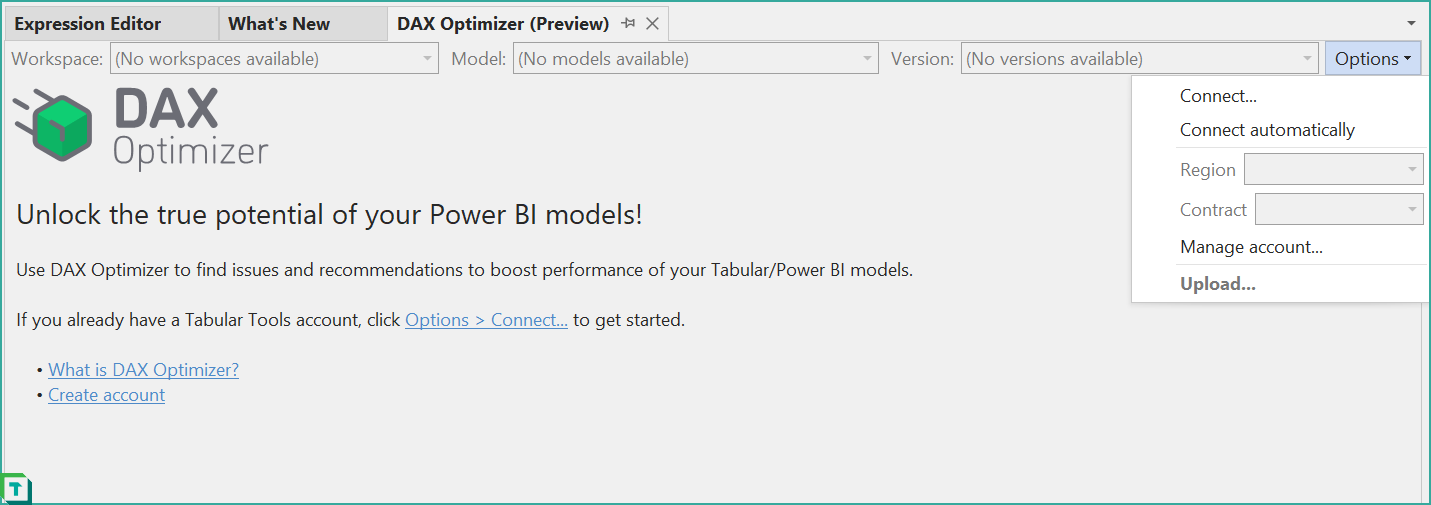
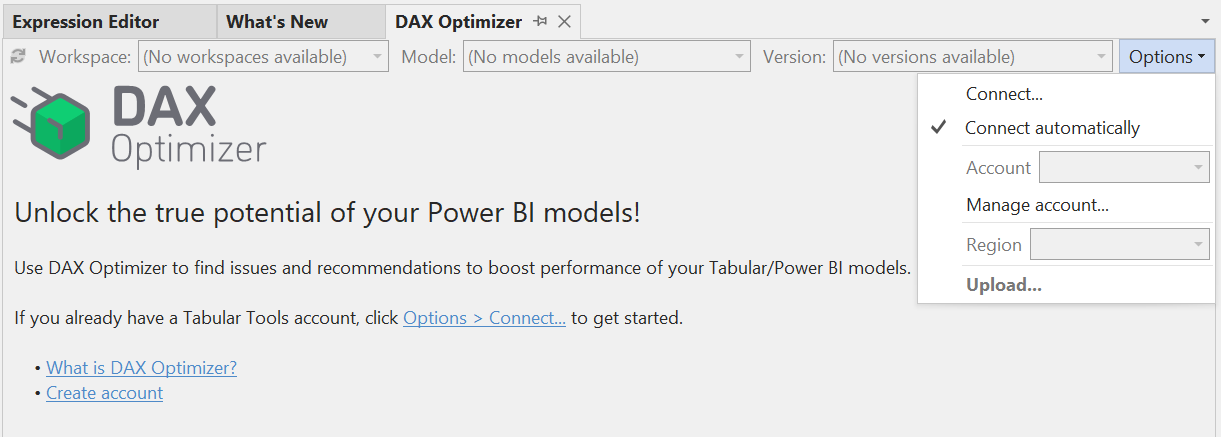
updated docs, see #2315

diff --git a/te3/features/dax-optimizer-integration.md b/te3/features/dax-optimizer-integration.md
@@ -2,7 +2,7 @@
 uid: dax-optimizer-integration
 title: DAX Optimizer Integration
 author: Daniel Otykier
-updated: 2024-04-17
+updated: 2024-10-30
 applies_to:
   editions:
     - edition: Desktop
@@ -23,7 +23,7 @@ Tabular Editor 3.18.0 introduces **DAX Optimizer** as an integrated experience. 
 
 To access this feature, go to the **View** menu and choose **DAX Optimizer**.
 
-![Dax Optimizer](~/images/dax-optimizer-preview.png)
+![Dax Optimizer](~/images/dax-optimizer-view-menu.png)
 
 You will be presented with a new view similar to the figure below:
 
@@ -31,7 +31,11 @@ You will be presented with a new view similar to the figure below:
 
 To connect Tabular Editor 3 to the DAX Optimizer service, click **Connect...** through the **Options** menu. You will be prompted to enter your Tabular Tools (DAX Optimizer) credentials.
 
+If you wish to **disconnect** or **connect using a different account**, go to the **Options** menu again, and choose the **Reconnect...** option. Cancelling the dialog will disconnect the current session.
+
 If you want Tabular Editor 3 to automatically connect the next time the application is launched, you can check the **Connect automatically** option within the **Options** menu. If you have a DAX Optimizer account with workspaces in multiple regions, you can also choose which region to connect to through the **Options** menu.
+
+Lastly, the **Options** menu also lets you switch to a different account in [group scenarios](https://docs.daxoptimizer.com/how-to-guides/managing-groups).
 
 ## Browsing workspaces and models
 
@@ -70,15 +74,21 @@ You will be presented with a dialog similar to the one shown below:
 
 ![Upload Vpax](~/images/upload-vpax.png)
 
-Here, you can choose whether the VPAX should be uploaded as a new model within the workspace, or whether the VPAX contains updated statistics for an existing model. For a new model, you must supply a name and choose whether or not the VPAX should be [obfuscated](https://www.sqlbi.com/blog/marco/2024/03/15/vpax-obfuscator-a-library-to-obfuscate-vpax-files/) (see below for more details on obfuscation). For a new model *version*, you must select the existing model to update.
+Here, you can choose whether the VPAX should be uploaded as a new model within the workspace, or whether the VPAX contains updated statistics for an existing model.
+
+- For a **new model**, you must supply a name and choose whether or not the VPAX should be [obfuscated](https://www.sqlbi.com/blog/marco/2024/03/15/vpax-obfuscator-a-library-to-obfuscate-vpax-files/) (see below for more details on obfuscation). You must also choose which [contract](https://docs.daxoptimizer.com/glossary/contract) the model should be uploaded under. This impacts the number and frequency of DAX Optimizer [*runs*](https://docs.daxoptimizer.com/glossary/run) you can subsequently perform on the model.
+- For a **new model version**, you must select the existing model to update.
 
 Once you click the **OK** button, the VPAX file will be uploaded to DAX Optimizer, and you will be able to start analyzing the model.
 
+> [!NOTE]
+> If no VertiPaq Analyzer statistics are available in Tabular Editor 3, these statistics will be collected for the current model before the VPAX file is uploaded. We will also automatically re-collect statistics if the last statistics collection is older than or equal to the statistics of the last VPAX file upload, for the specific model.
+
 ### Obfuscation
 
-As of Tabular Editor 3.15.0, it is possible to export obfuscated VPAX files using the **VertiPaq Analyzer** view. In this case, a dictionary file is generated and stored on your local machine, next to the generated .ovpax file. This dictionary file is used to deobfuscate the contents of the .ovpax file.
+By default, VPAX files uploaded using Tabular Editor 3 will be obfuscated. In the **Upload Model** you may toggle obfuscation on/off for new model uploads. Subsequent model version uploads will be obfuscated or not depending on the first version upload. You can also export an obfuscated VPAX file locally without uploading to DAX Optimizer through the **VertiPaq Analyzer** view. In this case, a dictionary file is generated and stored on your local machine, next to the exported .ovpax file. This dictionary file is used to deobfuscate the contents of the .ovpax file.
 
-When obfuscated VPAX data is uploaded to the DAX Optimizer service through the **DAX Optimizer** view, Tabular Editor automatically keeps track of obfuscation dictionaries by storing them in the `%LocalAppData%\TabularEditor3\DaxOptimizer` folder on your local machine. As such, when browsing models using the **DAX Optimizer** feature, models are automatically deobfuscated if a suitable dictionary is found in this folder.
+When obfuscated VPAX data is uploaded to the DAX Optimizer service through the **DAX Optimizer** view, Tabular Editor automatically keeps track of obfuscation dictionaries by storing them in the `%LocalAppData%\TabularEditor3\DaxOptimizer` folder on your local machine. As such, when browsing models using the **DAX Optimizer** feature in Tabular Editor 3, models are automatically deobfuscated if a suitable dictionary is found in this folder, providing a more seemless experience when using obfuscation.
 
 If the dictionary is not found, you will have an option to manually specify a dictionary file.
 
@@ -91,9 +101,16 @@ If no dictionary file is provided, you will only be able to browse the obfuscate
 > [!TIP]
 > If you want to browse an obfuscated model through the DAX Optimizer web interface, you can specify a dictionary from the `%LocalAppData%\TabularEditor3\DaxOptimizer` location. The DAX Optimizer web interface performs the deobfuscation on the client side, so your dictionary is never uploaded to the DAX Optimizer service.
 
+### Analyze a model
+
+Once a VPAX file has been uploaded, please allow a few seconds for the file to be "verified" by the DAX Optimizer service. Once verified, you can perform a DAX Optimizer "run" by checking the "You agree to **consume 1 run** to analyze this model." checkbox, and then clicking the **Analyze** button in the **DAX Optimizer** view:
+
+![Dax Optimizer Analyze](~/images/dax-optimizer-analyze.png)
+
+The analysis will take a few minutes to complete, depending on the size of the model and the number of measures. Once the analysis is complete, you will be presented with a summary of the issues detected.
+
 ## Known issues and limitations
 
 The following are known issues and limitations with the **DAX Optimizer** feature, which we expect to address in future releases:
 
-- Obfuscated model results may be highlighted incorrectly in DAX expressions, when the obfuscated names of objects does not have the same length as the unobfuscated names.
-- The **DAX Optimizer** view does not display how many "runs" are left on any given contract.
+- The **DAX Optimizer** view does not display how many "runs" are left on any given contract. As a workaround, sign in to https://app.daxoptimizer.com and click the "lightning" icon in the top-right corner, to view how many "runs" you have left per contract.

diff --git a/te3/features/security-privacy.md b/te3/features/security-privacy.md
@@ -2,7 +2,7 @@
 uid: security-privacy
 title: Security overview
 author: Daniel Otykier
-updated: 2021-06-15
+updated: 2024-10-30
 ---
 # Tabular Editor 3 Security and Privacy
 
@@ -47,6 +47,14 @@ Tabular Editor may perform requests to online resources (web URLs) only in the f
 - **Usage telemetry\*.** By default, Tabular Editor 3 collects and transmits anonymous usage data as users interact with the tool. This data includes information about which UI objects a user interacts with and the timing of each. It also contains high-level information about the Tabular data model being edited through the tool. This information only relates to high-level properties like compatibility level and mode, number of tables, type of server (Analysis Services vs. Power BI vs. Power BI Desktop), etc. **No personally identifyable data is collected this way**, neither do we collect any information about names of objects or DAX expressions in the Tabular Object Model itself. A user may opt out of sending telemetry data to us at any point.
 - **Error reports\*.** When an unexpected error occurs, we transmit the stack trace and (anonymized) error message, along with an optional description provided by the user. If a user opts out of sending telemetry data, error reports will also not be sent.
 - **Using the DAX formatter.** (Tabular Editor 2.x only) A DAX expression may be formatted by clicking a button in Tabular Editor. In this case, the DAX expression (and nothing else) is sent to the www.daxformatter.com webservice. The first time a user clicks this button, an explicit warning message is shown, asking them to confirm their intent. Tabular Editor 3 does not perform web requests when formatting DAX code.
+- **DAX Optimizer**. If a user has a [Tabular Tools account](https://tabulartools.com) with a [DAX Optimizer](https://daxoptimizer.com) subscription, they will be able to browse their DAX Optimizer workspace, view issues and suggestions, and upload new VPAX files directly from within Tabular Editor 3. VPAX files contains model metadata and statistics, but no actual model *data*. The DAX Optimizer Integration feature in Tabular Editor 3 causes various requests to one or more of the below endpoints (depending on authentication type and region specified when the Tabular Tools account was created).<br/>
+  For more information, please consult the [DAX Optimizer documentation](https://docs.daxoptimizer.com/legal/data-processing).<br/>
+  Endpoints used:
+  - https://account.tabulartools.com
+  - https://licensing.api.daxoptimizer.com/api
+  - https://australiaeast.api.daxoptimizer.com/api
+  - https://eastus.api.daxoptimizer.com/api
+  - https://westeurope.api.daxoptimizer.com/api
 - **Importing Best Practice Rules.** Tabular Editor has a feature that allows a user to specify an URL from which to retrieve a list of Best Practice rules in a JSON based format. This type of request only downloads the JSON data from the URL - no data is transmitted to the URL.
 - **Using C# scripts.** Tabular Editor allows users to write and execute code written in C#, for purposes of automation. Such a script may potentially connect to online resources, using C# language features and the .NET runtime. The user is always responsible for ensuring that executed code does not cause any unintended sharing of data. Tabular Editor ApS cannot be held liable for any damages, losses or leaks caused by the use of the C# scripting feature in general. Tabular Editor will never execute C# scripts without the explicit action of the user.
 
@@ -58,6 +66,7 @@ To allow traffic to the above mentioned web requests, you'll have to whitelist:
 - Usage telemetry / Error reports: **https://*.in.applicationinsights.azure.com**
 - DAX Formatter (Tabular Editor 2.x only): **https://www.daxformatter.com**
 - Import Best Practice Rules / C# Scripts: Depends on the context
+- DAX Optimizer: Endpoints listed above.
 
 > [!NOTE]
 > A system administrator may enforce certain [policies](xref:policies), which can be used to disable some or all of the features shown on the list above.

diff --git a/te3/features/code-actions.md b/te3/features/code-actions.md
@@ -2,7 +2,7 @@
 uid: code-actions
 title: Code Actions
 author: Daniel Otykier
-updated: 2024-08-28
+updated: 2024-10-30
 applies_to:
   editions:
     - edition: Desktop
@@ -115,3 +115,12 @@ The Code Actions below will appear with a screwdriver icon in the left margin wh
 | Rewrite TOTALxTD using CALCULATE | Functions such as [`TOTALMTD`](https://dax.guide/TOTALMTD), [`TOTALQTD`](https://dax.guide/TOTALQTD) and [`TOTALYTD`](https://dax.guide/TOTALYTD) can be rewritten using the [`CALCULATE`](https://dax.guide/CALCULATE) function, which is more expressive and provides greater flexibility. Example:<br>`TOTALYTD([Total Sales], 'Date'[Date])` -> `CALCULATE([Total Sales], DATESYTD('Date'[Date]))` |
 | Rewrite using FILTER | A scalar predicate in a filter argument to `CALCULATE` can be rewritten using `FILTER`. This is useful, for example when you need to add more complex filtering logic. Example:<br>`CALCULATE(..., Products[Color] = "Red")` -> `CALCULATE(..., FILTER(ALL(Products[Color]), Products[Color] = "Red"))` |
 | Invert IF | To improve readability, it is sometimes useful to invert `IF` statements. Example:<br>`IF(a < b, "B is greater", "A is greater")` -> `IF(a > b, "A is greater", "B is greater")` |
+
+## Customizing Code Actions
+
+You can customize the behavior of Code Actions through the **Tools > Preferences** dialog, under **Text Editors > DAX Editor > Code Actions**. Here you can toggle the feature on and off, and configure additional options for some Code Actions, such as the prefix to use for variable names and extension columns.
+
+We are planning to add more configuration options to this screen in future versions, such as an option for toggling individual Code Actions on and off. Stay tuned!
+
+![Code Actions Preferences](~/images/code-actions-preferences.png)
+

diff --git a/common/policies.md b/common/policies.md
@@ -2,7 +2,7 @@
 uid: policies
 title: Policies
 author: Daniel Otykier
-updated: 2022-08-11
+updated: 2024-10-30
 ---
 
 # Policies
